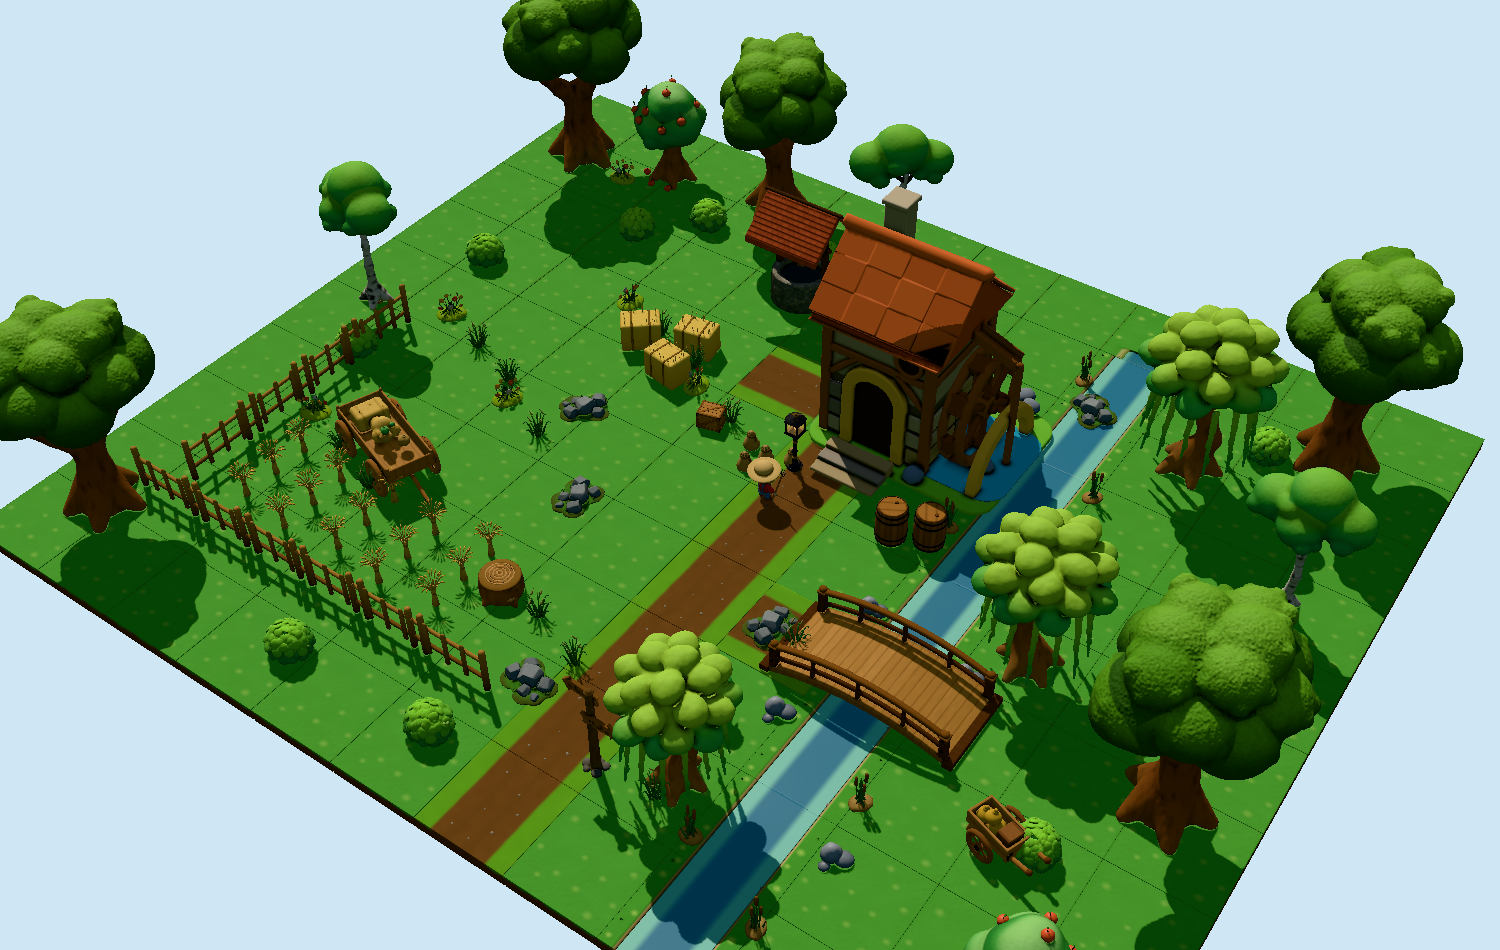
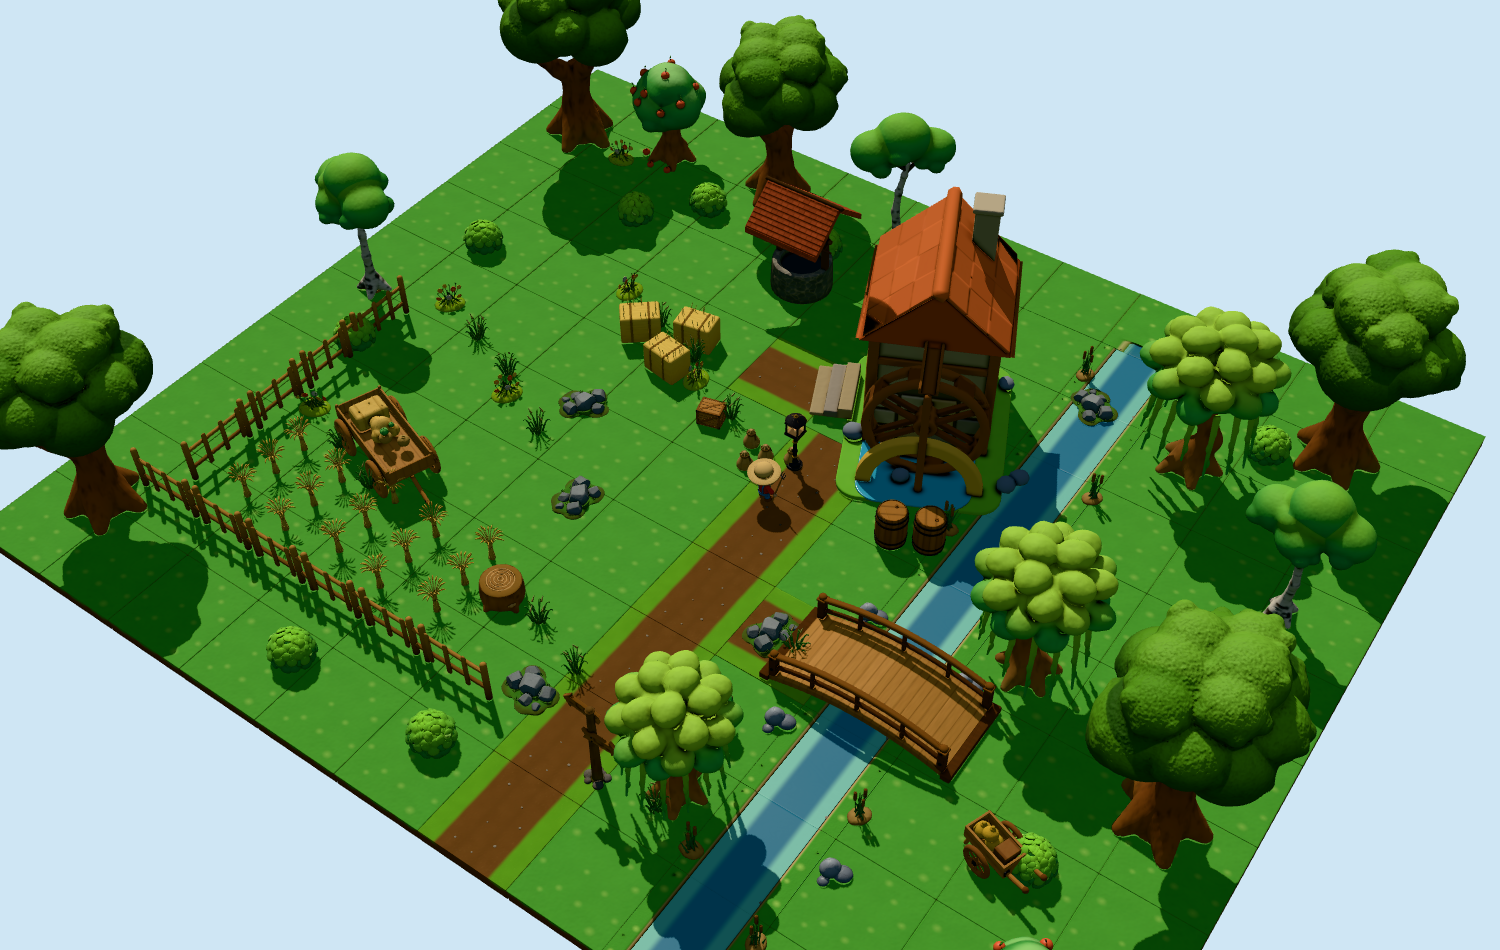
fix(asset_scenes_civic): mill wheel faces the camera

diff --git a/scenes/maps/mill.ts b/scenes/maps/mill.ts
@@ -122,7 +122,7 @@ export function places(): Place[] {
   { asset: 'grass-ground', at: [11, 0, 5] },
   { asset: 'grass-ground', at: [11, 0, 7] },
   { asset: 'grass-ground', at: [11, 0, 9] },
-  { asset: 'watermill', at: [2.2, 0, -3.4] },
+  { asset: 'watermill', at: [2.2, 0, -3.4], yaw: -65 },
   { asset: 'bridge', at: [5, 0, 3] },
   { asset: 'sack', at: [-0.6, 0, -0.9], yaw: 20 },
   { asset: 'sack', at: [-0.1, 0, -0.7], yaw: 80 },
